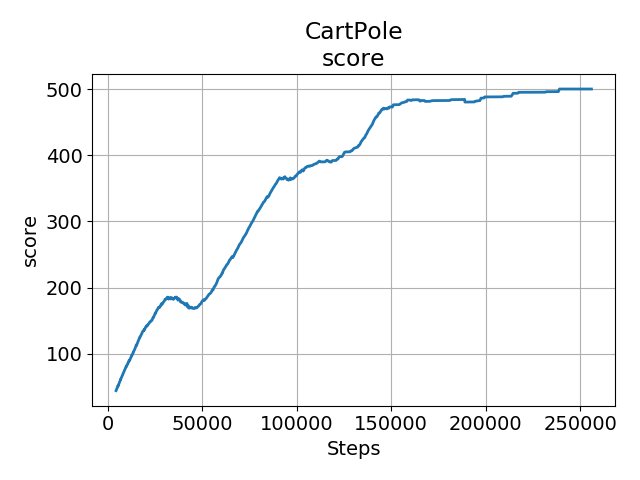
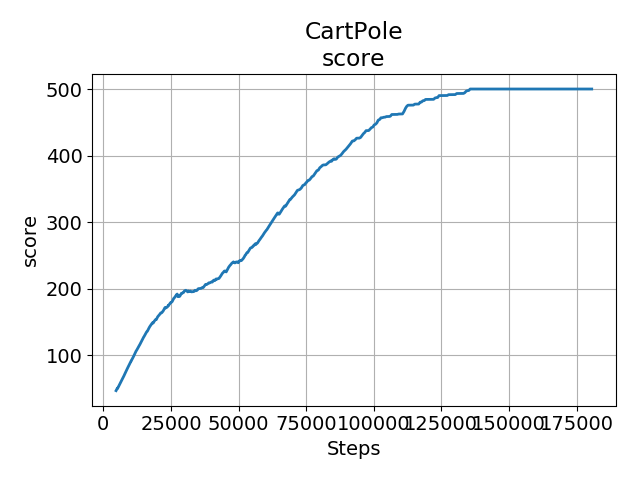
dobro

diff --git a/TRPO/dobro/nets_spinningup.py b/TRPO/dobro/nets_spinningup.py
@@ -1,0 +1,298 @@
+from sklearn.utils import shuffle
+from collections import deque
+from copy import deepcopy
+import tensorflow as tf
+import numpy as np
+import itertools
+import pickle
+import random
+import copy
+import time
+import os
+
+EPS = 1e-10
+
+class Agent:
+    def __init__(self, env, args):
+        self.env = env
+        self.name = args['agent_name']
+        self.checkpoint_dir='{}/checkpoint'.format(args['env_name'])
+        self.discount_factor = args['discount_factor']
+        self.state_dim = env.observation_space.shape[0]
+        try:
+            self.action_dim = env.action_space.shape[0]
+            self.action_bound_min = env.action_space.low
+            self.action_bound_max = env.action_space.high
+        except:
+            self.action_dim = 1
+            self.action_bound_min = - 1.0
+            self.action_bound_max = 1.0
+        self.hidden1_units = args['hidden1']
+        self.hidden2_units = args['hidden2']
+        self.v_lr = args['v_lr']
+        self.value_epochs = args['value_epochs']
+        self.num_conjugate = args['num_conjugate']
+        self.max_decay_num = args['max_decay_num']
+        self.line_decay = args['line_decay']
+        self.max_kl = args['max_kl']
+        self.damping_coeff = args['damping_coeff']
+        self.gae_coeff = args['gae_coeff']
+
+        with tf.variable_scope(self.name):
+            #placeholder
+            self.states = tf.placeholder(tf.float32, [None, self.state_dim], name='State')
+            self.actions = tf.placeholder(tf.float32, [None, self.action_dim], name='Action')
+            self.targets = tf.placeholder(tf.float32, [None,], name='targets')
+            self.gaes = tf.placeholder(tf.float32, [None,], name='gaes')
+            self.old_mean = tf.placeholder(tf.float32, [None, self.action_dim], name='old_mean')
+            self.old_std = tf.placeholder(tf.float32, [None, self.action_dim], name='old_std')
+            self.log_prob_old = tf.placeholder(tf.float32, [None,], name='log_prob_old')
+
+            #policy & value
+            self.mean, self.std = self.build_policy_model('policy')
+            self.value = self.build_value_model('value')
+            self.kl = self.get_kl_divergence()
+
+            #action
+            self.norm_noise_action = self.mean + tf.multiply(tf.random_normal(tf.shape(self.mean)), self.std)
+            self.sample_noise_action = self.unnormalize_action(self.norm_noise_action)
+            self.norm_action = self.mean
+            self.sample_action = self.unnormalize_action(self.norm_action)
+
+            #value loss
+            v_vars = tf.get_collection(tf.GraphKeys.TRAINABLE_VARIABLES, scope=tf.get_variable_scope().name+'/value')
+            self.v_loss = 0.5*tf.square(self.targets - self.value)
+            self.v_loss = tf.reduce_mean(self.v_loss)
+            v_optimizer = tf.train.AdamOptimizer(learning_rate=self.v_lr)
+            self.v_gradients = tf.gradients(self.v_loss, v_vars)
+            self.v_train_op = v_optimizer.apply_gradients(zip(self.v_gradients, v_vars))
+
+            #policy optimizer
+            norm_actions = self.normalize_action(self.actions)
+            p_vars = tf.get_collection(tf.GraphKeys.TRAINABLE_VARIABLES, scope=tf.get_variable_scope().name+'/policy')
+            self.log_prob = - tf.reduce_sum(tf.log(self.std) + 0.5*np.log(2*np.pi) + tf.squared_difference(norm_actions, self.mean) / (2 * tf.square(self.std)), axis=1)
+            self.objective = tf.reduce_mean(tf.exp(self.log_prob - self.log_prob_old) * self.gaes)
+            self.grad_g = tf.gradients(self.objective, p_vars)
+            self.grad_g = tf.concat([tf.reshape(g, [-1]) for g in self.grad_g], axis=0)
+
+            kl_grad = tf.gradients(self.kl, p_vars)
+            kl_grad = tf.concat([tf.reshape(g, [-1]) for g in kl_grad], axis=0)
+            self.theta_ph = tf.placeholder(tf.float32, shape=kl_grad.shape, name='theta')
+            self.hessian_product = tf.gradients(tf.reduce_sum(kl_grad*self.theta_ph), p_vars)
+            self.hessian_product = tf.concat([tf.reshape(g, [-1]) for g in self.hessian_product], axis=0)
+            self.hessian_product += self.damping_coeff * self.theta_ph
+
+            self.flatten_p_vars = tf.concat([tf.reshape(g, [-1]) for g in p_vars], axis=0)
+            self.params = tf.placeholder(tf.float32, self.flatten_p_vars.shape, name='params')
+            self.assign_op = []
+            start = 0
+            for p_var in p_vars:
+                size = np.prod(p_var.shape)
+                param = tf.reshape(self.params[start:start + size], p_var.shape)
+                self.assign_op.append(p_var.assign(param))
+                start += size
+
+            #make session and load model
+            self.sess = tf.Session()
+            self.load()
+
+
+    def Hx(self, theta, feed_inputs):
+        feed_inputs[self.theta_ph] = theta
+        return self.sess.run(self.hessian_product, feed_dict=feed_inputs)
+
+    def get_kl_divergence(self):
+        mean, std = self.mean, self.std
+        old_mean, old_std = self.old_mean, self.old_std
+        log_std_old = tf.log(old_std + EPS)
+        log_std_new = tf.log(std + EPS)
+        frac_std_old_new = old_std/(std + EPS)
+        kl = tf.reduce_mean(log_std_new - log_std_old + 0.5*tf.square(frac_std_old_new) + 0.5*tf.square((mean - old_mean)/(std + EPS))- 0.5)
+        return kl
+
+    def build_policy_model(self, name='policy'):
+        with tf.variable_scope(name):
+            model = tf.layers.dense(self.states, self.hidden1_units, activation=None, kernel_initializer=tf.random_normal_initializer(mean=0.0, stddev=0.02))
+            model = tf.layers.batch_normalization(model)
+            model = tf.nn.tanh(model)
+            model = tf.layers.dense(model, self.hidden2_units, activation=None, kernel_initializer=tf.random_normal_initializer(mean=0.0, stddev=0.02))
+            model = tf.layers.batch_normalization(model)
+            model = tf.nn.tanh(model)
+            mean = tf.layers.dense(model, self.action_dim, activation=tf.tanh, kernel_initializer=tf.random_normal_initializer(mean=0.0, stddev=0.02))
+            logits_std = tf.get_variable("logits_std",shape=(self.action_dim),initializer=tf.random_normal_initializer(mean=-1.0,stddev=0.02)) # 0.1정도로 initialize
+            std = tf.ones_like(mean)*tf.nn.softplus(logits_std)
+        return mean, std
+
+    def build_value_model(self, name='value'):
+        with tf.variable_scope(name):
+            inputs = self.states
+            model = tf.layers.dense(inputs, self.hidden1_units, activation=None, kernel_initializer=tf.random_normal_initializer(mean=0.0, stddev=0.02))
+            model = tf.layers.batch_normalization(model)
+            model = tf.nn.tanh(model)
+            model = tf.layers.dense(model, self.hidden2_units, activation=None, kernel_initializer=tf.random_normal_initializer(mean=0.0, stddev=0.02))
+            model = tf.layers.batch_normalization(model)
+            model = tf.nn.tanh(model)
+            model = tf.layers.dense(model, 1, activation=None, kernel_initializer=tf.random_normal_initializer(mean=0.0, stddev=0.02))
+            model = tf.reshape(model, [-1])
+            return model
+
+    def normalize_action(self, a):
+        temp_a = 2.0/(self.action_bound_max - self.action_bound_min)
+        temp_b = (self.action_bound_max + self.action_bound_min)/(self.action_bound_min - self.action_bound_max)
+        temp_a = tf.ones_like(a)*temp_a
+        temp_b = tf.ones_like(a)*temp_b
+        return temp_a*a + temp_b
+
+    def unnormalize_action(self, a):
+        temp_a = (self.action_bound_max - self.action_bound_min)/2.0
+        temp_b = (self.action_bound_max + self.action_bound_min)/2.0
+        temp_a = tf.ones_like(a)*temp_a
+        temp_b = tf.ones_like(a)*temp_b
+        return temp_a*a + temp_b
+
+    def get_action(self, state, is_train):
+        if is_train:
+            [[action], [value]] = self.sess.run([self.sample_noise_action, self.value], feed_dict={self.states:[state]})
+        else:
+            [[action], [value]] = self.sess.run([self.sample_action, self.value], feed_dict={self.states:[state]})
+        clipped_action = np.clip(action, self.action_bound_min, self.action_bound_max)
+        return action, clipped_action, value
+
+    def get_gaes_targets(self, rewards, values, next_values):
+        deltas = np.array(rewards) + self.discount_factor*np.array(next_values) - np.array(values)
+        gaes = deepcopy(deltas)
+        targets = np.zeros_like(rewards)
+        #targets = np.array(rewards) + self.discount_factor*np.array(next_values)
+        ret = 0
+        for t in reversed(range(len(gaes))):
+            if t < len(gaes) - 1:
+                gaes[t] = gaes[t] + self.discount_factor*self.gae_coeff*gaes[t + 1]
+            ret = rewards[t] + self.discount_factor*ret
+            targets[t] = ret
+        return gaes, targets
+
+    def train(self, trajs):
+        states = trajs[0]
+        actions = trajs[1]
+        targets = trajs[2]
+        next_states = trajs[3]
+        rewards = trajs[4]
+        gaes = trajs[5]
+        old_means, old_stds, old_log_probs = self.sess.run([self.mean, self.std, self.log_prob], 
+                                                    feed_dict={self.states:states, self.actions:actions})
+
+        #POLICY update
+        grad_g = self.sess.run(self.grad_g, feed_dict={
+            self.states:states,
+            self.actions:actions,
+            self.log_prob_old:old_log_probs,
+            self.gaes:gaes})
+        feed_inputs = {self.states:states, self.old_mean:old_means, self.old_std:old_stds}
+        x_value = self.conjugate_gradient_method(grad_g, feed_inputs)
+
+        #line search
+        Ax = self.Hx(x_value, feed_inputs)
+        xAx = np.inner(x_value, Ax)
+        beta = np.sqrt(2*self.max_kl / xAx)
+        init_theta = self.sess.run(self.flatten_p_vars)
+
+        init_objective = self.sess.run(self.objective, feed_dict={
+            self.states:states,
+            self.actions:actions,
+            self.log_prob_old:old_log_probs,
+            self.gaes:gaes})
+
+        while True:
+            theta = beta*x_value + init_theta
+            self.sess.run(self.assign_op, feed_dict={self.params:theta})
+            kl, objective = self.sess.run([self.kl, self.objective], feed_dict={
+                self.states:states,
+                self.actions:actions,
+                self.gaes:gaes,
+                self.log_prob_old:old_log_probs,
+                self.old_mean:old_means,
+                self.old_std:old_stds})
+            if kl <= self.max_kl and objective > init_objective:
+                break
+            beta *= self.line_decay
+
+        #VALUE update
+        v_s, v_t = shuffle(states, targets, random_state=0)
+        for _ in range(self.value_epochs):
+            v_s, v_t = shuffle(v_s, v_t, random_state=0)
+            self.sess.run(self.v_train_op, feed_dict={
+                    self.states:v_s,
+                    self.targets:v_t})
+        v_loss = self.sess.run(self.v_loss, feed_dict={self.states:states, self.targets:targets})
+
+        return v_loss, objective, kl
+
+    def conjugate_gradient_method(self, g, feed_inputs):
+        x_value = np.zeros_like(g)
+        residue = deepcopy(g)
+        p_vector = deepcopy(g)
+        rs_old = np.inner(residue, residue)
+        for i in range(self.num_conjugate):
+            Ap = self.Hx(p_vector, feed_inputs)
+            pAp = np.inner(p_vector, Ap)
+            alpha = rs_old / (pAp + EPS)
+            x_value += alpha * p_vector
+            residue -= alpha * Ap
+            rs_new = np.inner(residue, residue)
+            p_vector = residue + (rs_new / rs_old) * p_vector
+            rs_old = rs_new
+        return x_value
+
+    def save(self):
+        self.saver.save(self.sess, self.checkpoint_dir+'/model.ckpt')
+        print('save 성공!')
+
+    def load(self):
+        self.saver = tf.train.Saver(var_list= tf.get_collection(tf.GraphKeys.GLOBAL_VARIABLES))
+
+        if not os.path.isdir(self.checkpoint_dir):
+            os.makedirs(self.checkpoint_dir)
+
+        ckpt = tf.train.get_checkpoint_state(self.checkpoint_dir)
+        if ckpt and tf.train.checkpoint_exists(ckpt.model_checkpoint_path):
+            self.saver.restore(self.sess, ckpt.model_checkpoint_path)
+            print('success to load model!')
+        else:
+            self.sess.run(tf.global_variables_initializer())
+            print('fail to load model...')
+        
+
+if __name__ == "__main__":
+    env_name = 'Pendulum-v0'
+    save_name = env_name.split('-')[0]
+    agent_args = {'agent_name':'TRPO',
+                'env_name':save_name,
+                'discount_factor':0.9,
+                'hidden1':2,
+                'hidden2':2,
+                'v_lr':1e-3,
+                'std':0.1}
+
+    import gym
+    env = gym.make(env_name)
+    agent = Agent(env, agent_args)
+
+    states = []
+    actions = []
+    rewards = []
+    next_states = []
+    state = env.reset()
+    done = False
+    while not done:
+        action = agent.get_action(state, True)
+        next_state, reward, done, info = env.step(action)
+        states.append(state)
+        actions.append(action)
+        rewards.append(reward)
+        next_states.append(next_state)
+        
+        state = next_state
+
+    trajs = [states, actions, rewards, next_states]
+    agent.train(trajs)
+

diff --git a/TRPO/dobro/train_halfcheetah.py b/TRPO/dobro/train_halfcheetah.py
@@ -7,7 +7,8 @@ deprecation._PRINT_DEPRECATION_WARNINGS = False
 
 from graph_drawer import Graph
 from logger import Logger
-from nets import Agent
+#from nets import Agent
+from nets_spinningup import Agent
 
 from collections import deque
 import numpy as np
@@ -46,6 +47,7 @@ def train():
     graph = Graph(1000, save_name, ['score', 'policy objective', 'value loss', 'kl divergence'])
     episodes = 10
     max_steps = 4000
+    max_ep_len = min(1000, env.spec.max_episode_steps)
     epochs = int(1e5)
     save_freq = 10
 
@@ -71,7 +73,7 @@ def train():
             step = 0
             temp_rewards = []
             values = []
-            while not done:
+            while True:
                 step += 1
                 ep_step += 1
                 action, clipped_action, value = agent.get_action(state, True)
@@ -86,7 +88,15 @@ def train():
 
                 state = next_state
                 score += reward
-            action, clipped_action, value = agent.get_action(state, True)
+
+                if done or step >= max_ep_len:
+                    break
+
+            if step >= max_ep_len:
+                action, clipped_action, value = agent.get_action(state, True)
+            else: #중간에 끝난 거면, 다 돌기전에 죽어버린거니, value = 0 으로 해야함
+                value = 0
+                print("done before max_ep_len...") 
             next_values = values[1:] + [value]
             temp_gaes, temp_targets = agent.get_gaes_targets(temp_rewards, values, next_values)
             targets += list(temp_targets)

diff --git a/TRPO/dobro/compare_confunc.py b/TRPO/dobro/compare_confunc.py
@@ -12,8 +12,8 @@ rc('font', **font)
 
 #env_name = 'MountainCarContinuous'
 #env_name = 'Pendulum'
-env_name = 'CartPole'
-#env_name = 'HalfCheetah'
+#env_name = 'CartPole'
+env_name = 'HalfCheetah'
 #env_name = "Safexp_PointGoal1"
 item_name = 'score'
 #item_name = 'cost'

diff --git a/TRPO/dobro/train_cartpole.py b/TRPO/dobro/train_cartpole.py
@@ -7,7 +7,8 @@ deprecation._PRINT_DEPRECATION_WARNINGS = False
 
 from graph_drawer import Graph
 from logger import Logger
-from nets import Agent
+#from nets import Agent
+from nets_spinningup import Agent
 
 from collections import deque
 import numpy as np
